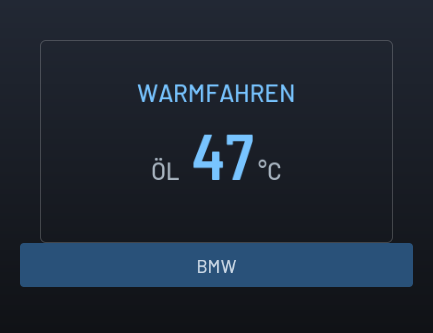
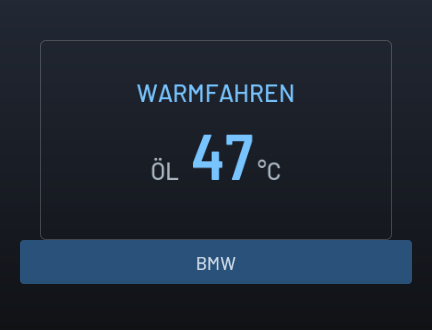
HUD 0.5.2: Bild 352x200 statt 353x203 (gerade Breite) gegen die Scherung im G87-HUD
Die Schraeglage sieht aus wie eine Textur, deren Zeilen mit falscher Breite gelesen werden
(etwa 1 px je Zeile, an den Seiten umgebrochen); ungerade Breite ist der uebliche Grund.

diff --git a/apps/km_hudtest/tools/test_app.js b/apps/km_hudtest/tools/test_app.js
@@ -268,10 +268,10 @@ server.listen(SOCK, () => {
         const hud = service.layers[0];
         assert.strictEqual(hud.target, 'hud');
         assert.strictEqual(hud.kind, 'image');
-        assert.deepStrictEqual([hud.x, hud.y, hud.w, hud.h, hud.iw, hud.ih], [0, 0, draw.HUD.w, draw.HUD.h, 353, 203]);
+        assert.deepStrictEqual([hud.x, hud.y, hud.w, hud.h, hud.iw, hud.ih], [0, 1, draw.HUD.w, draw.HUD.h, 352, 200]);
         // pixels sent whole
         assert.ok(framesOf(hud.ref).length >= 1);
-        assert.strictEqual(framesOf(hud.ref)[0].bytes, 353 * 203 * 4);
+        assert.strictEqual(framesOf(hud.ref)[0].bytes, 352 * 200 * 4);
         // the list
         assert.strictEqual(row('Renderer'), 'verbunden (id8)');
         assert.strictEqual(row('HUD'), 'angezeigt');
@@ -323,7 +323,7 @@ server.listen(SOCK, () => {
                 assert.strictEqual(service.conns, 2);
                 assert.strictEqual(service.hellos, 2);
                 assert.strictEqual(service.layers.length, layersBefore + 1);
-                const again = service.frames.filter((f) => f.rects === 0 && f.bytes === 353 * 203 * 4);
+                const again = service.frames.filter((f) => f.rects === 0 && f.bytes === 352 * 200 * 4);
                 assert.ok(again.length >= 2, 'the HUD sent whole again');
                 assert.strictEqual(again[again.length - 1].ref, service.layers[service.layers.length - 1].ref);
                 assert.strictEqual(row('Renderer'), 'verbunden (id8)');

diff --git a/apps/km_hudtest/src/hud_draw.js b/apps/km_hudtest/src/hud_draw.js
@@ -22,7 +22,11 @@
  */
 const { Canvas } = require('./kit_canvas.js');
 
-const HUD = Object.freeze({ w: 353, h: 203 });
+/* Our picture: 352 x 200, not the target's whole 353 x 203. On the G87 the picture now and then showed sheared
+ * about one pixel per row and wrapped at the sides, as a texture whose rows are read with the wrong width; an odd
+ * width is the usual cause, so both sides are multiples of 8 (the layer sits at TARGET_AT in the target). */
+const HUD = Object.freeze({ w: 352, h: 200 });
+const TARGET_AT = Object.freeze({ x: 0, y: 1 });
 const EDGE = 10;                // the block's distance from the side it sits at
 
 const WHITE = [240, 244, 248, 255];
@@ -178,4 +182,4 @@ function key(v) {
     return [v.mode, v.label, deg(v.value), items, v.pos, v.size, cal].join('|');
 }
 
-module.exports = { HUD, drawHud, key, lines, warp };
+module.exports = { HUD, drawHud, key, lines, warp, TARGET_AT };

diff --git a/apps/km_hudtest/tools/test_screens.js b/apps/km_hudtest/tools/test_screens.js
@@ -186,7 +186,7 @@ assert.ok(Math.abs(column(straight, 40) - column(straight, 160)) <= 1, 'the midd
 const tilted = hud.drawHud({ mode: 'grid', cal: { tilt: 30, shift: 0, height: 100 } });
 assert.ok(column(tilted, 40) < column(tilted, 160) - 40, '+ tilt leans the top to the left');
 const moved = hud.drawHud({ mode: 'grid', cal: { tilt: 0, shift: 20, height: 100 } });
-assert.strictEqual(column(moved, 100), column(straight, 100) + 20, '+ shift moves right');
+assert.strictEqual(column(moved, 80), column(straight, 80) + 20, '+ shift moves right');
 assert.notStrictEqual(hud.key({ mode: 'warm', value: 50, cal: { tilt: 10, shift: 0, height: 100 } }),
     hud.key({ mode: 'warm', value: 50, cal: { tilt: 12, shift: 0, height: 100 } }), 'a new correction draws again');
 const st = S.stepped(S.stepped(def, 'tilt', 1), 'height', 1);

diff --git a/apps/km_hudtest/src/hud_link.js b/apps/km_hudtest/src/hud_link.js
@@ -84,7 +84,7 @@ class HudLink extends EventEmitter {
         const cr = new this._Client('km_hudtest', this._path);
         this._cr = cr;
         this.conn = 'verbinde';
-        this.ref = cr.image({ target: 'hud', klass: 'overlay', x: 0, y: 0, w: draw.HUD.w, h: draw.HUD.h,
+        this.ref = cr.image({ target: 'hud', klass: 'overlay', x: (draw.TARGET_AT || {}).x || 0, y: (draw.TARGET_AT || {}).y || 0, w: draw.HUD.w, h: draw.HUD.h,
             iw: draw.HUD.w, ih: draw.HUD.h, fps: 5, visible: this._on ? 1 : 0 });
         cr.on('ready', () => {
             this.conn = 'verbunden';

diff --git a/shared/hud_link.js b/shared/hud_link.js
@@ -84,7 +84,7 @@ class HudLink extends EventEmitter {
         const cr = new this._Client('km_hudtest', this._path);
         this._cr = cr;
         this.conn = 'verbinde';
-        this.ref = cr.image({ target: 'hud', klass: 'overlay', x: 0, y: 0, w: draw.HUD.w, h: draw.HUD.h,
+        this.ref = cr.image({ target: 'hud', klass: 'overlay', x: (draw.TARGET_AT || {}).x || 0, y: (draw.TARGET_AT || {}).y || 0, w: draw.HUD.w, h: draw.HUD.h,
             iw: draw.HUD.w, ih: draw.HUD.h, fps: 5, visible: this._on ? 1 : 0 });
         cr.on('ready', () => {
             this.conn = 'verbunden';
